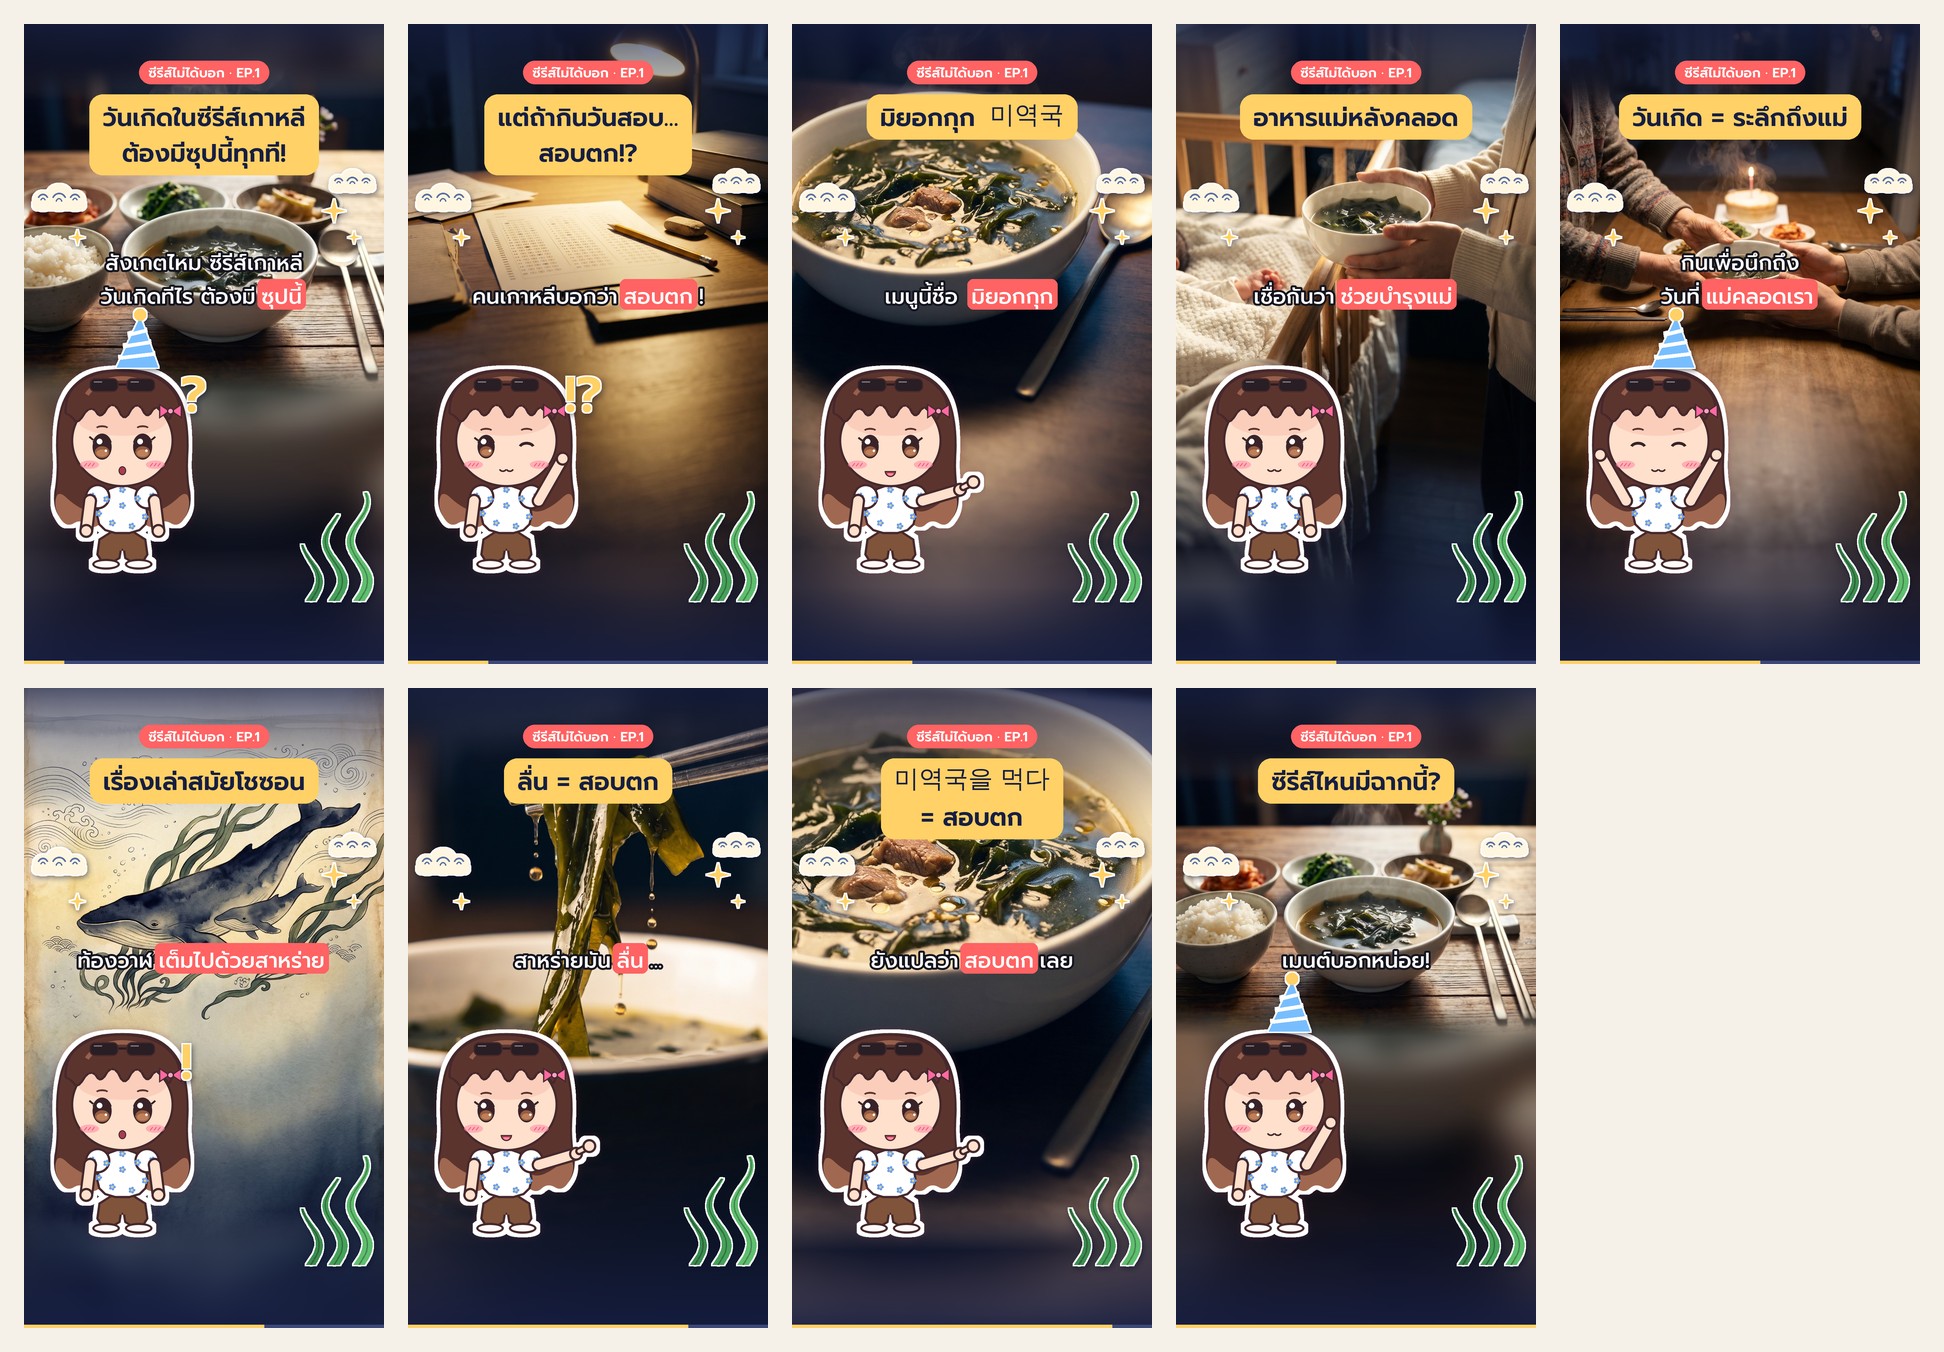
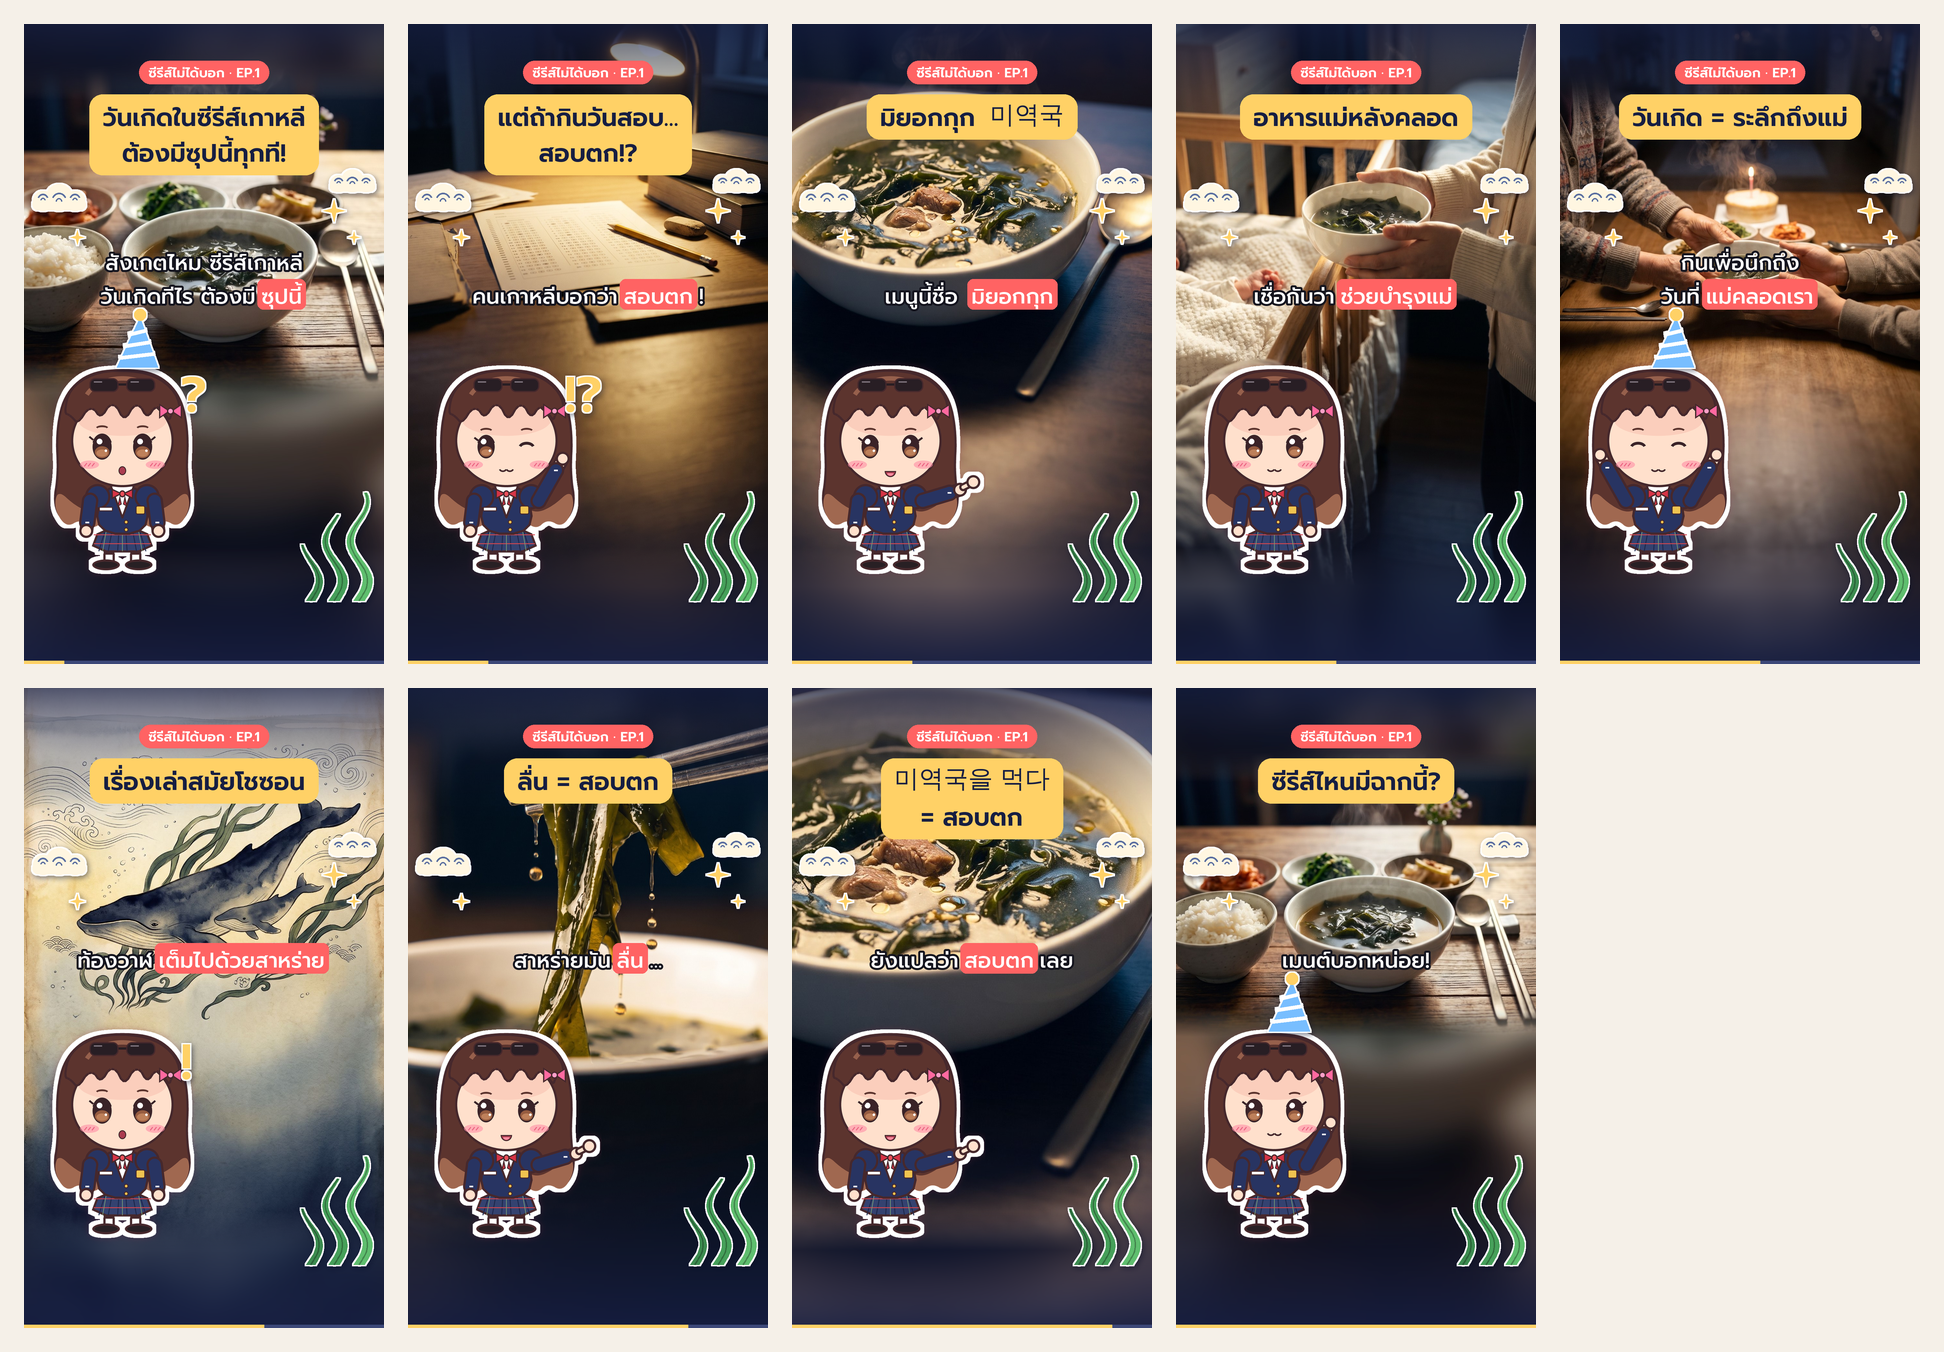
Mascot: add Korean school uniform outfit; use it in story EP.1 mock
Claude-Session: https://claude.ai/code/session_01RZMEmkS7RESx1oE558yDYc

diff --git a/office/editor/character.py b/office/editor/character.py
@@ -6,6 +6,7 @@
 
 pose:  stand | wave | point | think | cheer
 face:  smile | talk | surprised | wink | happy | think
+outfit: casual (เสื้อลายดอก) | school (ชุดนักเรียนเกาหลี — ใช้กับซีรีส์ "ซีรีส์ไม่ได้บอก")
 ขยับปากตอนพูด: สลับ face="smile" ↔ "talk" ทุก ~0.12 วิ · กะพริบตา: ใช้ face="happy" 2–3 เฟรม
 แผ่นตัวละคร: python3 office/editor/character.py sheet.png
 """
@@ -29,6 +30,9 @@ BLOUSE = (255, 255, 255)
 DOT = (110, 160, 230)
 PANTS = (128, 84, 58)
 PINK = (255, 105, 160)
+BLAZER = (40, 52, 98)
+SKIRT = (52, 66, 112)
+RIBBON = (214, 52, 70)
 GLASS = (40, 30, 36)
 LW = 7  # ความหนาเส้นขอบ
 
@@ -59,17 +63,25 @@ def _ell(d, box, fill, outline=True, w=LW):
     d.ellipse([v * S for v in box], fill=fill, outline=OUT if outline else None, width=w * S if outline else 0)
 
 
-def _arm(d, a, b, w=30):
+def _arm(d, a, b, w=30, sleeve=None):
     for col, ww in ((OUT, w + 2 * LW), (SKIN, w)):
         d.line([a[0] * S, a[1] * S, b[0] * S, b[1] * S], fill=col, width=ww * S)
         for x, y in (a, b):
             r = ww * S / 2
             d.ellipse((x * S - r, y * S - r, x * S + r, y * S + r), fill=col)
+    if sleeve:  # แขนเสื้อยาวถึง ~70% ของแขน
+        c = (a[0] + (b[0] - a[0]) * 0.72, a[1] + (b[1] - a[1]) * 0.72)
+        for col, ww in ((OUT, w + 8 + 2 * LW), (sleeve, w + 8)):
+            d.line([a[0] * S, a[1] * S, c[0] * S, c[1] * S], fill=col, width=ww * S)
+            for x, y in (a, c):
+                r = ww * S / 2
+                d.ellipse((x * S - r, y * S - r, x * S + r, y * S + r), fill=col)
+        d.line([c[0] * S - 6 * S, c[1] * S, c[0] * S + 6 * S, c[1] * S], fill=(255, 255, 255), width=5 * S)
     r = 22
     _ell(d, (b[0] - r, b[1] - r, b[0] + r, b[1] + r), SKIN)
 
 
-def draw_nagaji(pose="stand", face="smile", height=820, sticker=True):
+def draw_nagaji(pose="stand", face="smile", height=820, sticker=True, outfit="casual"):
     im = Image.new("RGBA", (BW * S, BH * S), (0, 0, 0, 0))
     d = ImageDraw.Draw(im)
 
@@ -84,6 +96,27 @@ def draw_nagaji(pose="stand", face="smile", height=820, sticker=True):
     _blob(d, tips, HAIR_TIP, it=3, outline=False)
 
     # ---- ตัว (เล็ก น่ารัก)
+    if outfit == "school":
+        _school_body(d)
+    else:
+        _casual_body(d)
+
+    # ---- แขน
+    L, R = (198, 505), (402, 505)
+    arms = {"stand": [(L, (186, 600)), (R, (414, 600))],
+            "wave": [(L, (186, 600)), (R, (478, 372))],
+            "point": [(L, (186, 600)), (R, (520, 470))],
+            "think": [(L, (186, 600)), (R, (338, 448))],
+            "cheer": [(L, (116, 360)), (R, (484, 360))]}[pose]
+    for a, b in arms:
+        _arm(d, a, b, sleeve=BLAZER if outfit == "school" else None)
+    if pose == "point":
+        _arm(d, (530, 462), (562, 446), w=11)
+    _face_and_hair(im, d, face)
+    return _finish(im, height, sticker)
+
+
+def _casual_body(d):
     _blob(d, [(228, 600), (372, 600), (386, 700), (308, 700), (300, 650), (292, 700), (214, 700)], PANTS, it=1)
     _ell(d, (205, 688, 292, 722), (255, 250, 248))
     _ell(d, (308, 688, 395, 722), (255, 250, 248))
@@ -98,18 +131,46 @@ def draw_nagaji(pose="stand", face="smile", height=820, sticker=True):
             d.ellipse(((cx - 4) * S, (cy - 4) * S, (cx + 4) * S, (cy + 4) * S), fill=DOT)
         d.ellipse(((x - 3) * S, (y - 3) * S, (x + 3) * S, (y + 3) * S), fill=(255, 214, 110))
 
-    # ---- แขน
-    L, R = (198, 505), (402, 505)
-    arms = {"stand": [(L, (186, 600)), (R, (414, 600))],
-            "wave": [(L, (186, 600)), (R, (478, 372))],
-            "point": [(L, (186, 600)), (R, (520, 470))],
-            "think": [(L, (186, 600)), (R, (338, 448))],
-            "cheer": [(L, (116, 360)), (R, (484, 360))]}[pose]
-    for a, b in arms:
-        _arm(d, a, b)
-    if pose == "point":
-        _arm(d, (530, 462), (562, 446), w=11)
 
+def _school_body(d):
+    """ชุดนักเรียนเกาหลี: เบลเซอร์กรมท่า เชิ้ตขาว โบว์แดง กระโปรงจีบลายสก็อต ถุงเท้ายาว รองเท้าโลฟเฟอร์"""
+    # ขา + ถุงเท้าขาวยาว + รองเท้า
+    for x in (258, 342):
+        d.rounded_rectangle(((x - 17) * S, 640 * S, (x + 17) * S, 700 * S), 8 * S, fill=SKIN, outline=OUT, width=LW * S)
+        d.rounded_rectangle(((x - 18) * S, 668 * S, (x + 18) * S, 706 * S), 6 * S, fill=(255, 255, 255), outline=OUT, width=LW * S)
+    _ell(d, (205, 690, 292, 724), (40, 32, 36))
+    _ell(d, (308, 690, 395, 724), (40, 32, 36))
+    # กระโปรงจีบลายสก็อต
+    sk = [(226, 588), (374, 588), (404, 668), (196, 668)]
+    _blob(d, sk, SKIRT, it=1)
+    for k in range(1, 7):  # จีบ
+        x0 = 226 + k * 148 / 7; x1 = 196 + k * 208 / 7
+        d.line((x0 * S, 594 * S, x1 * S, 664 * S), fill=(30, 40, 75), width=3 * S)
+    for y in (612, 640):  # ลายสก็อต
+        d.line((210 * S, y * S, 390 * S, y * S), fill=(200, 70, 80), width=3 * S)
+    for x in (250, 300, 350):
+        d.line((x * S, 594 * S, (x + (x - 300) * 0.25) * S, 664 * S), fill=(120, 160, 120), width=2 * S)
+    # เบลเซอร์
+    _blob(d, [(232, 455), (368, 455), (392, 612), (208, 612)], BLAZER, it=2)
+    _ell(d, (182, 452, 262, 532), BLAZER)
+    _ell(d, (338, 452, 418, 532), BLAZER)
+    # เชิ้ตขาว (คอวี) + โบว์แดง
+    d.polygon(_s([(262, 456), (338, 456), (300, 560)]), fill=(255, 255, 255), outline=OUT, width=4 * S)
+    d.line((262 * S, 456 * S, 300 * S, 560 * S), fill=OUT, width=5 * S)
+    d.line((338 * S, 456 * S, 300 * S, 560 * S), fill=OUT, width=5 * S)
+    for side in (-1, 1):
+        d.polygon(_s([(300, 482), (300 + side * 34, 466), (300 + side * 34, 500)]), fill=RIBBON, outline=OUT, width=4 * S)
+    d.polygon(_s([(292, 488), (284, 524), (298, 516)]), fill=RIBBON, outline=OUT, width=3 * S)
+    d.polygon(_s([(308, 488), (316, 524), (302, 516)]), fill=RIBBON, outline=OUT, width=3 * S)
+    _ell(d, (290, 472, 310, 494), (235, 80, 90), w=4)
+    # กระดุมทอง + ตราโรงเรียน + ป้ายชื่อ
+    for y in (572, 596):
+        _ell(d, (305, y - 7, 319, y + 7), (240, 196, 80), w=3)
+    d.rounded_rectangle((342 * S, 520 * S, 372 * S, 548 * S), 6 * S, fill=(240, 196, 80), outline=OUT, width=3 * S)
+    d.rounded_rectangle((226 * S, 524 * S, 270 * S, 538 * S), 3 * S, fill=(255, 255, 255), outline=OUT, width=3 * S)
+
+
+def _face_and_hair(im, d, face):
     # ---- หน้า
     _ell(d, (138, 168, 462, 462), SKIN)
     # เงาใต้หน้าม้า
@@ -198,6 +259,9 @@ def draw_nagaji(pose="stand", face="smile", height=820, sticker=True):
         d.polygon(_s([(bx, byy), (bx + side * 36, byy - 24), (bx + side * 36, byy + 24)]), fill=PINK, outline=OUT, width=4 * S)
     _ell(d, (bx - 11, byy - 11, bx + 11, byy + 11), (255, 160, 200), w=4)
 
+
+
+def _finish(im, height, sticker):
     out = im.resize((BW, BH), Image.LANCZOS)
     if sticker:  # ขอบสติกเกอร์ขาว + เงานุ่ม
         a = out.getchannel("A").point(lambda v: 255 if v > 20 else 0)

diff --git a/office/weeks/2026-W47/make_mockframes.py b/office/weeks/2026-W47/make_mockframes.py
@@ -157,7 +157,7 @@ def frame(i, sc):
     d.text((W/2-tw/2, 116), tag, font=ft, fill="white")
     pill(d, label, 225, ko, kofirst)
     # mascot bottom-left (keeps clear of TikTok buttons on the right and caption at bottom)
-    m = draw_nagaji(pose=pose, face=face, height=780)
+    m = draw_nagaji(pose=pose, face=face, height=780, outfit="school")
     img.alpha_composite(m, (10, H - 190 - m.height))
     img.alpha_composite(doodles(i))
     subtitle(d, sub, 870)
